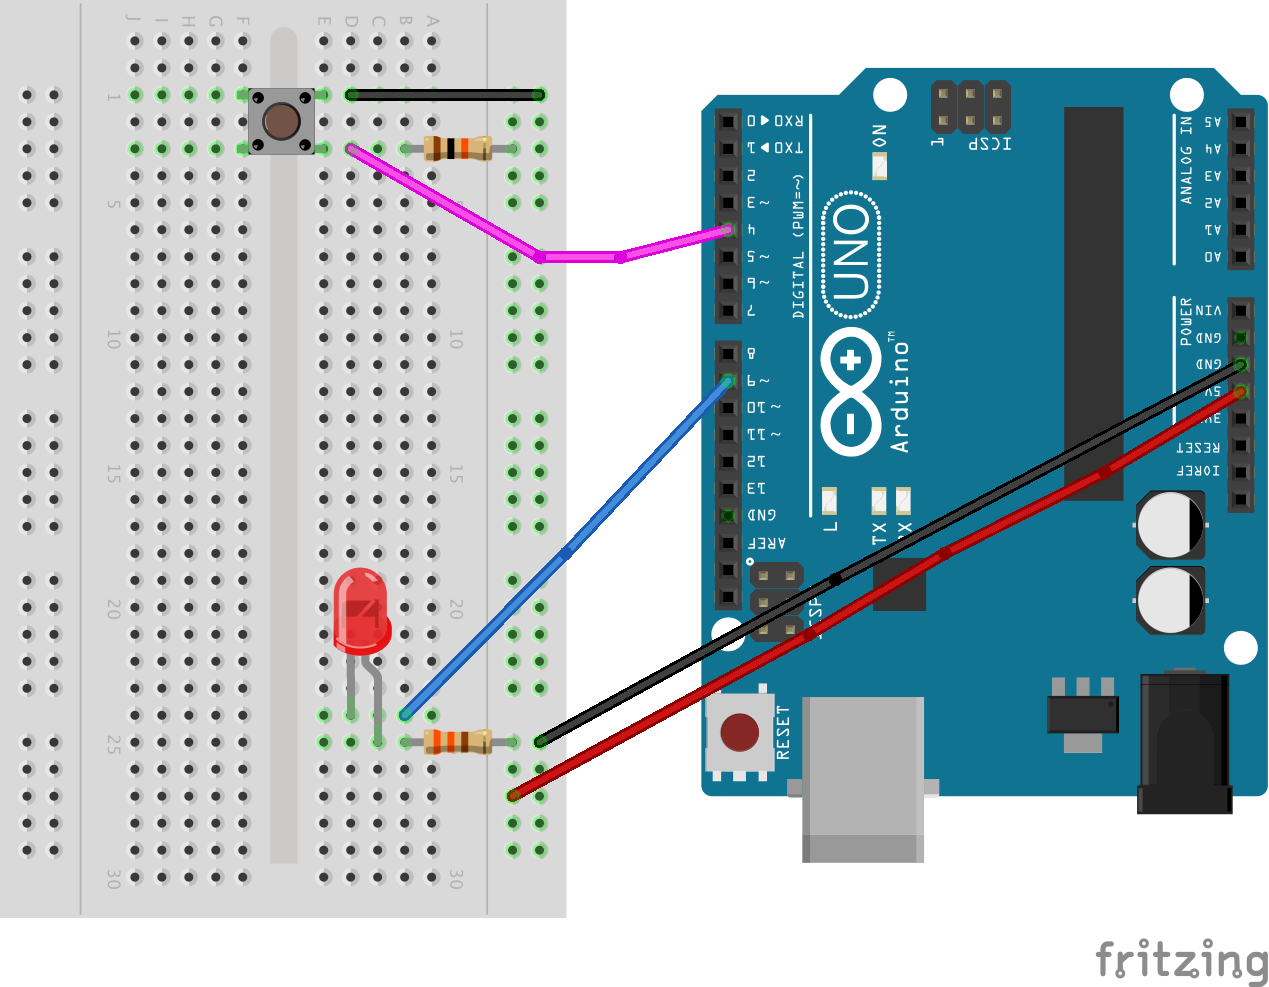
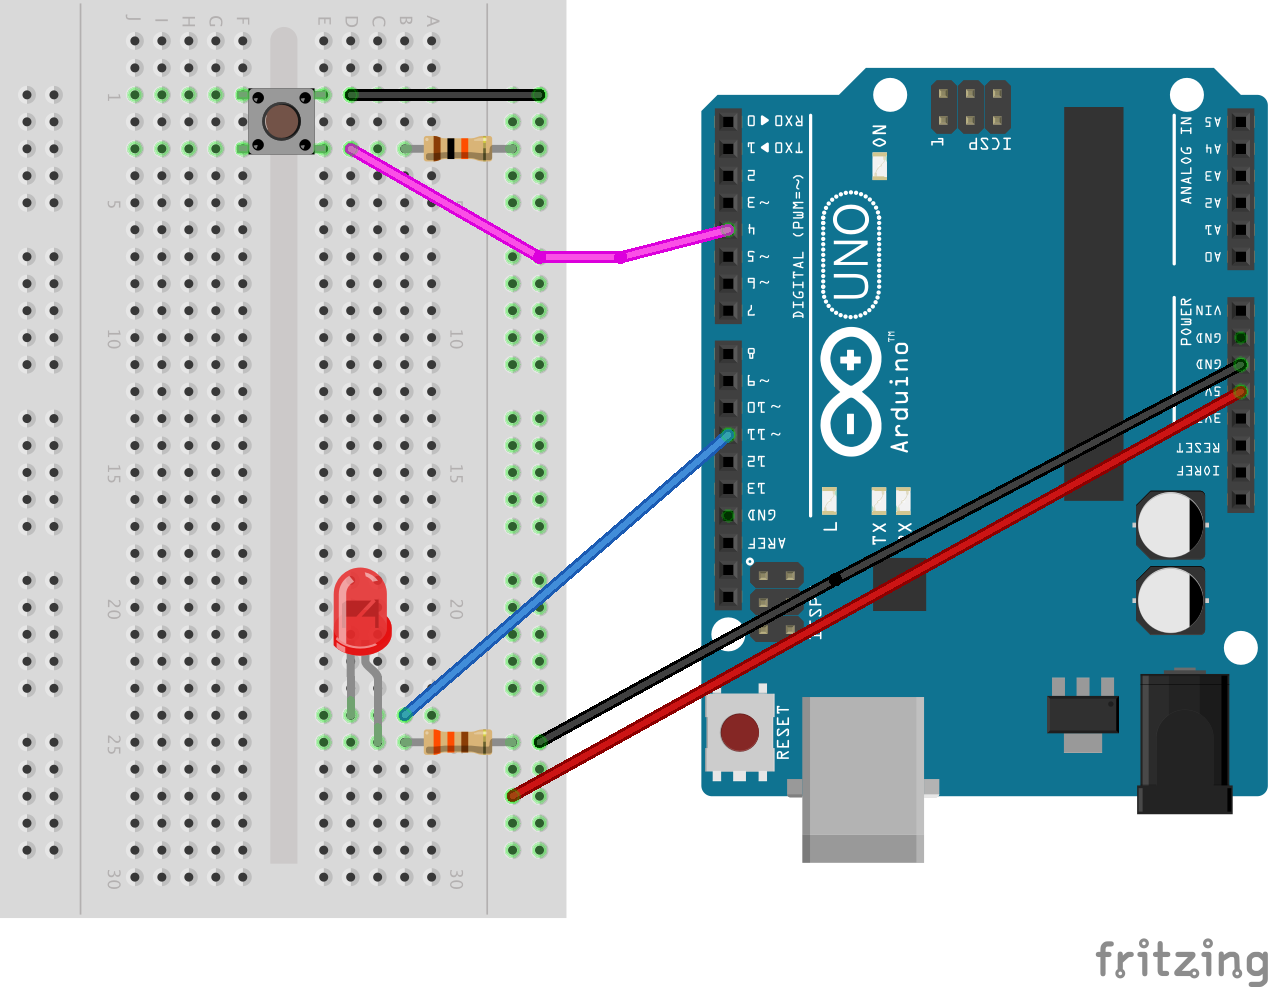
added 04

diff --git a/solutions/04_potentiometer_led_and_servo.js b/solutions/04_potentiometer_led_and_servo.js
@@ -1,48 +1,36 @@
-//var five = require("johnny-five");
+var five = require("johnny-five");
+var myBoard, myServo, myPotentiometer;
 
-//var myBoard, /*myLed,*/ myPotentiometer, myServo;
+myBoard = new five.Board();
+myBoard.on("ready", function() {
 
-//myBoard = new five.Board();
+  myServo = new five.Servo(5);
 
-//myBoard.on("ready", function() {
+  myLed = new five.Led(11);
 
-  var five = require("johnny-five"),
-  board, myServo;
-  board = new five.Board();
-  board.on("ready", function() {
-    myServo = new five.Servo(9);
-
-    board.repl.inject({
-      servo: myServo
-    });
-
-    myServo.sweep();
-
-    this.wait(5000, function(){
-      myServo.stop();
-      myServo.center();
-    });
-  });
-
-
-/*  myPotentiometer = new five.Sensor({
+  myPotentiometer = new five.Sensor({
     pin: "A0",
     freq: 250
-  });*/
+  });
 
-//  myLed = new five.Led(9);
-
-//  myServo = new five.Servo(9);
-/*
   myPotentiometer.on("read", function() {
     var rawValue = this.raw;
-  //  myLed.brightness(Math.floor(rawValue / 4));
+    myLed.brightness(Math.floor(rawValue / 4));
     myServo.to(five.Fn.map(rawValue, 0, 1023, 0, 179));
   });
-*/
-//  myBoard.repl.inject({
-//    replServo: myServo//,
-//    replLed: myLed
-//  });
 
-//});
+  myBoard.repl.inject({
+    servo: myServo,
+    led: myLed
+  });
+});
+
+/**
+Potentiometer
+- why analog?  The analog pins let you read/write analog values - basically, instead of giving out a voltage of 0 or 5 (as with digital), they can give a range of voltages between 0 and 5 (both as input and output).  10 bits of resolution (i.e. 1024 different values.
+- why freq?  The frequency in ms of data events. Defaults to 25ms.
+
+Servo
+- why PWM?  This allows digital pins to switch on and off quickly, simulating the effect of analog write.  8 bits of resolution, or 255 different values
+
+*/

diff --git a/exercises/04_potentiometer_led_and_servo.md b/exercises/04_potentiometer_led_and_servo.md
@@ -1,0 +1,24 @@
+# Exercise Three : LED & Button #
+
+## Summary ##
+
+
+## Requirements ##
+
+## Steps ##
+
+#### Step 1 : Wire up the Components ####
+
+This diagram (called a Fritzing) shows how you should wire up your circuit.  The Fritzing tool is [available for download here](http://fritzing.org/download/).
+
+![Wiring Diagram](https://github.com/markwest1972/johnny_five_intro/blob/master/fritzings/04_potentiometer_led_and_servo.png)
+
+TODO : Write about the different Pin Types.
+
+#### Step 2 : Running the Code ####
+
+
+#### Step 3 : Experimenting with the REPL ####
+
+
+## Learning Summary ##

diff --git a/README.md b/README.md
@@ -17,3 +17,7 @@ In this exercise you will install Johnny-Five and use it to make the built in LE
 #### [3. Controlling an LED with a Button](https://github.com/markwest1972/johnny_five_intro/blob/master/exercises/03_led_and_button.md)
 
 In this exercise you will use Johnny-Five to dim and brighten the LED by using a Button.  In addition you will learn about how you can use the Johnny-Five REPL.
+
+#### [4. Controlling an LED and Servo with a Potentiometer](https://github.com/markwest1972/johnny_five_intro/blob/master/exercises/04_potentiometer_led_and_servo.md)
+
+TODO
